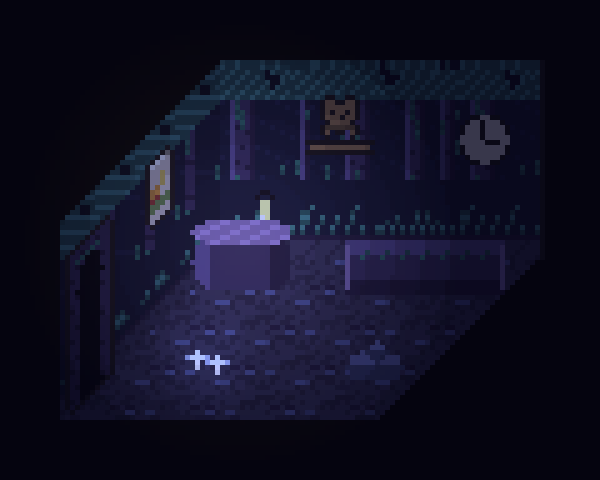
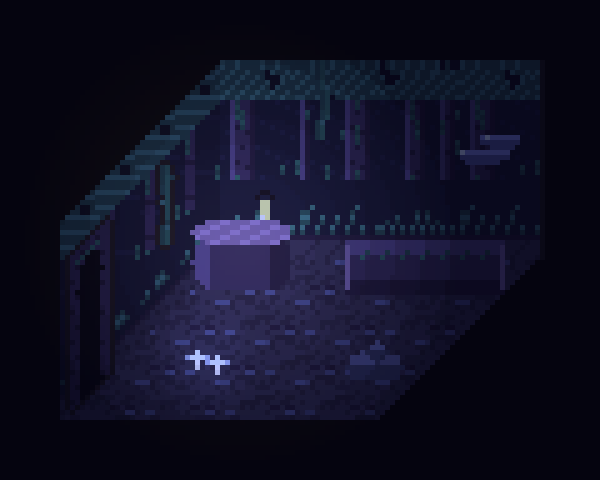
Forest room: remove bear doll/clock/drawing, add bracket fungus and hanging vines
Claude-Session: https://claude.ai/code/session_01FPZSaKiVNU2zED737yZX4w

Changed region(s): [[0.51, 0.1875, 0.63, 0.3438], [0.24, 0.3125, 0.3, 0.5312], [0.75, 0.2188, 0.87, 0.3438]]

diff --git a/tools/gen_forest_assets.py b/tools/gen_forest_assets.py
@@ -169,3 +169,20 @@ def plank():
     put(im, 13, 1, (0, 0, 0, 0)[:3]) if False else None
     return im
 for name, im in (('broken_chair', broken_chair()), ('broken_table', broken_table()), ('plank_piece', plank())): save(im, name)
+
+# ---- 벽 장식(곰돌이·시계·그림 대신): 나무에 붙은 버섯, 늘어진 덩굴 ----
+def bracket_fungus():
+    im = new(12, 8)
+    for k, (cx, cy, rw) in enumerate(((4, 5, 5), (8, 2, 4))):
+        for dx in range(-rw, rw + 1):
+            for dy in range(0, 3 if abs(dx) < rw - 1 else 2):
+                put(im, cx + dx, cy + dy, (96, 104, 150) if dy == 0 else (60, 66, 108))
+        put(im, cx - rw + 1, cy, (160, 176, 220))
+    return im
+def vine():
+    im = new(8, 16)
+    for y in range(16):
+        put(im, 3 + (y // 6) % 2, y, C['leaf']); put(im, 4 + (y // 6) % 2, y, C['moss'])
+        if y % 5 == 2: put(im, 2 + (y // 5) % 3, y, C['leafl']); put(im, 6 - (y // 5) % 3, y + 1, C['leaf'])
+    return im
+save(bracket_fungus(), 'bracket_fungus'); save(vine(), 'vine_hang')
